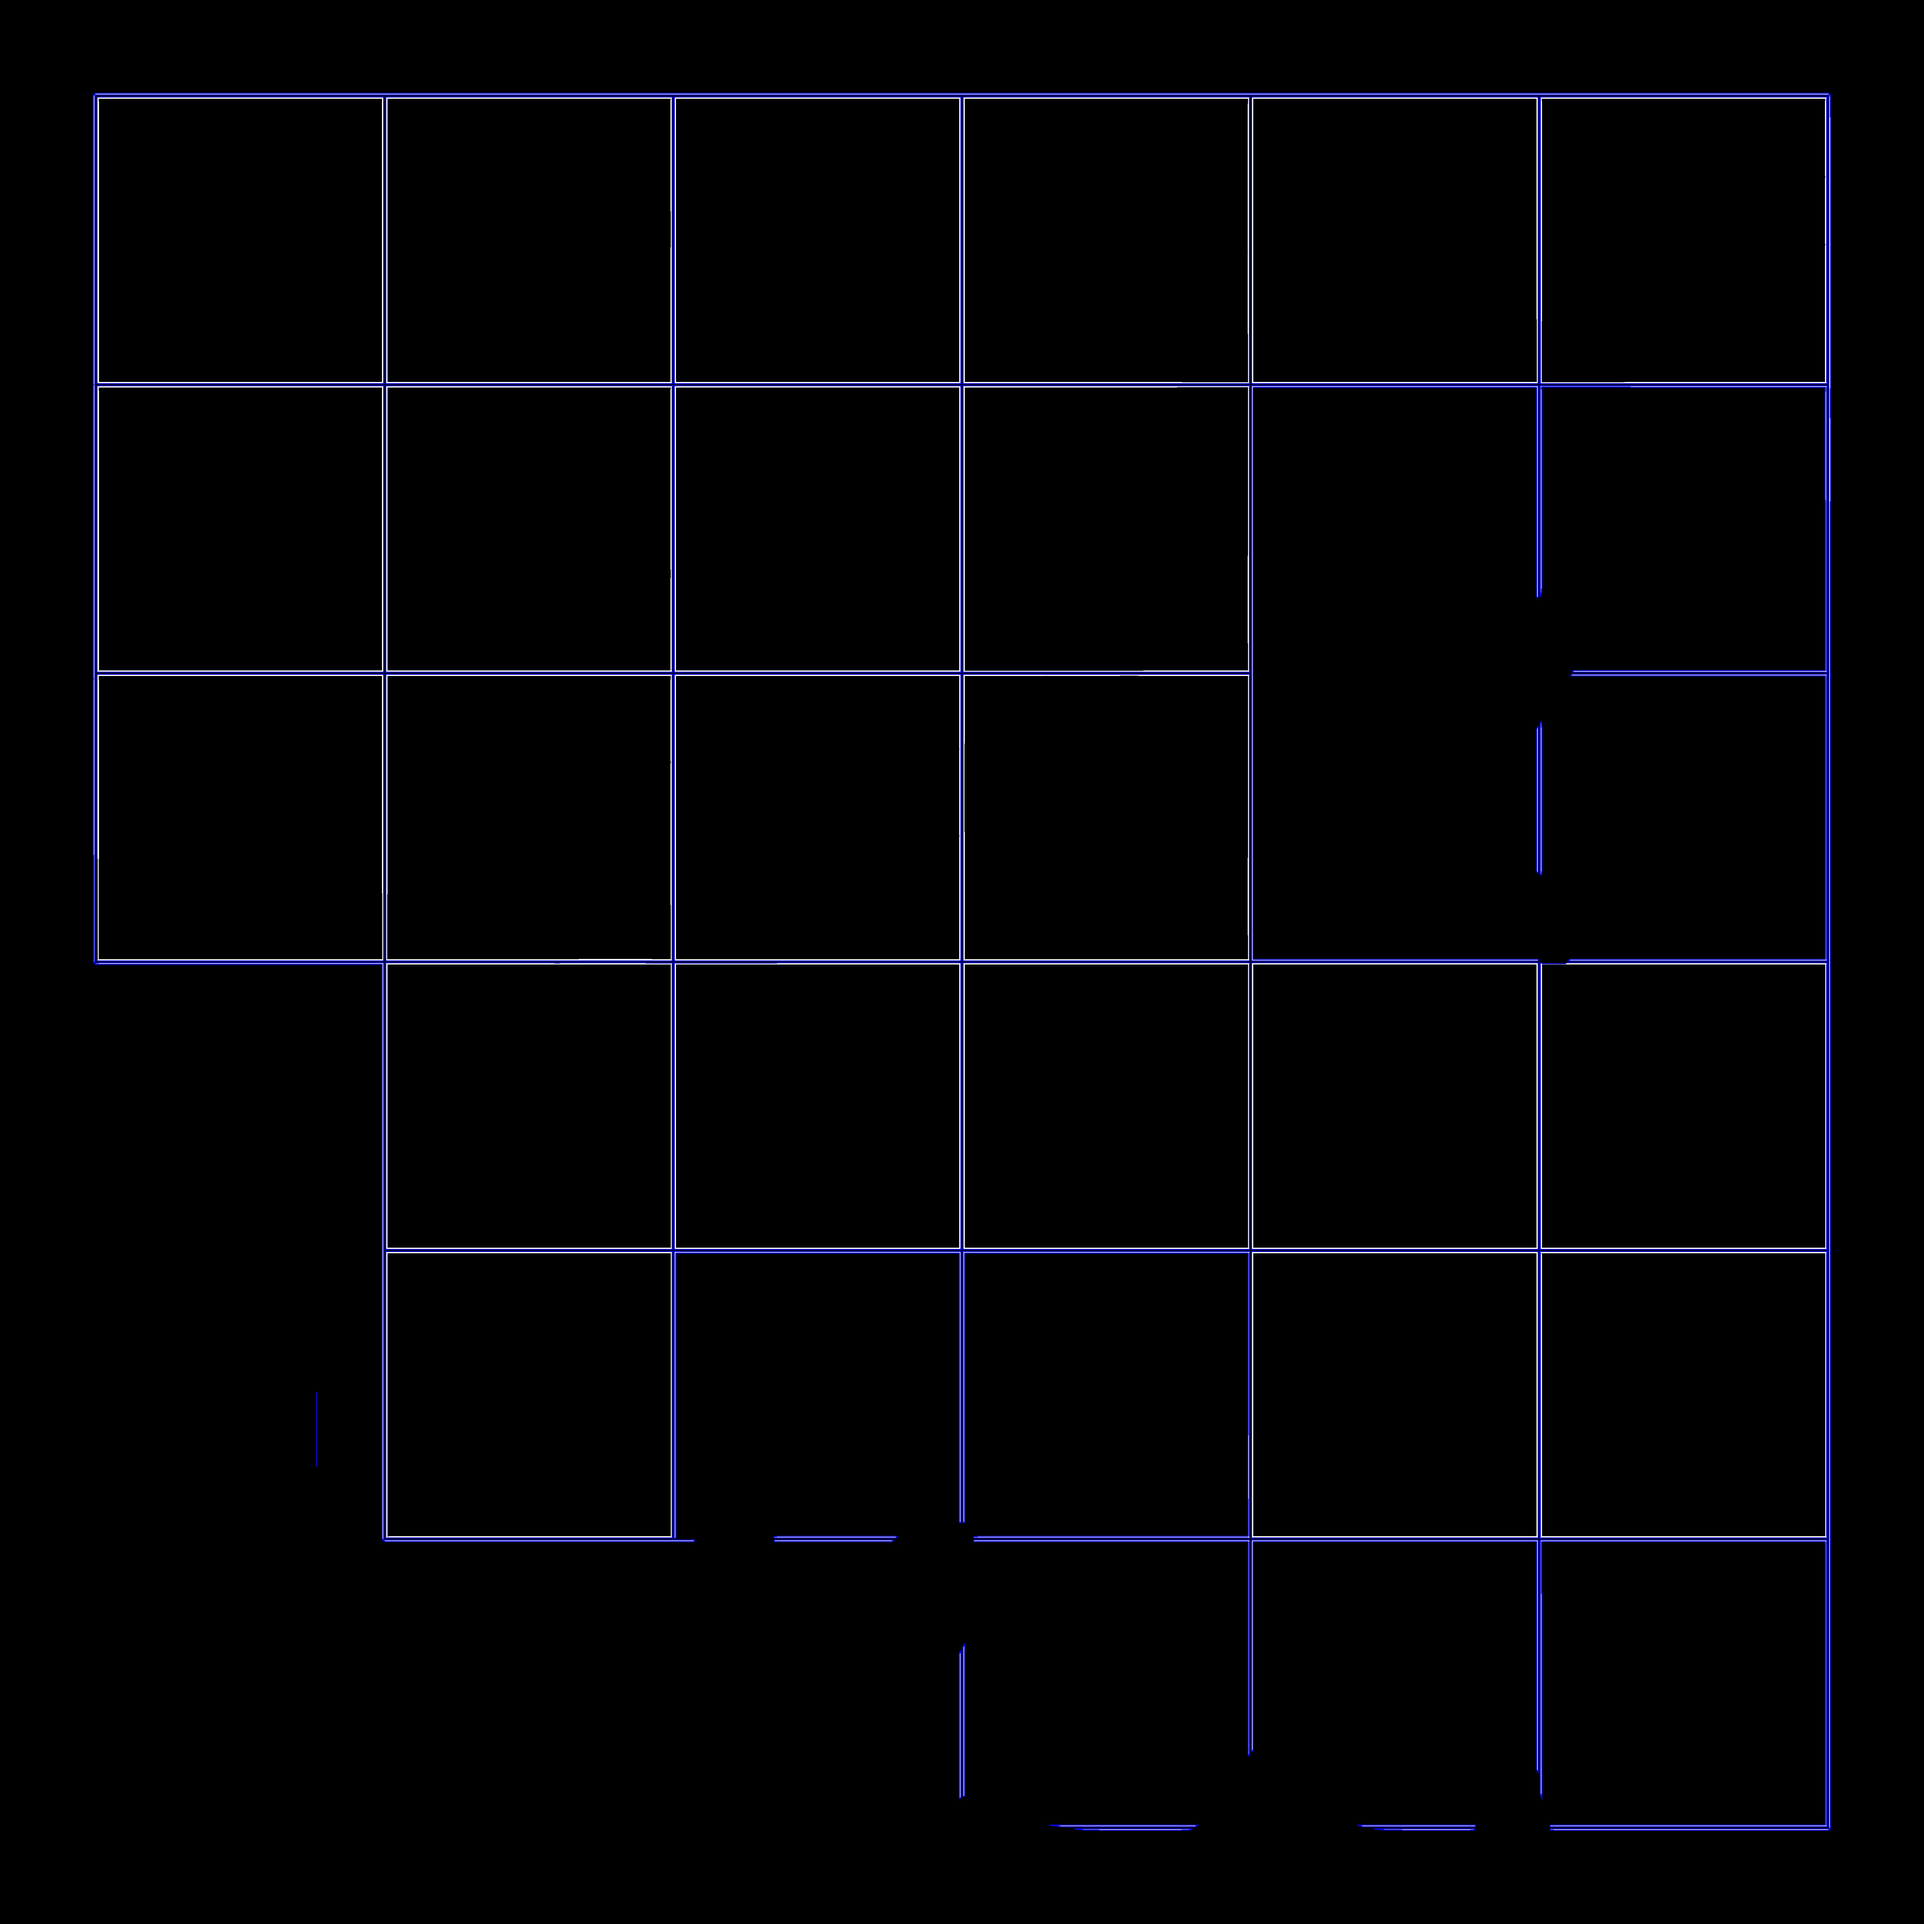
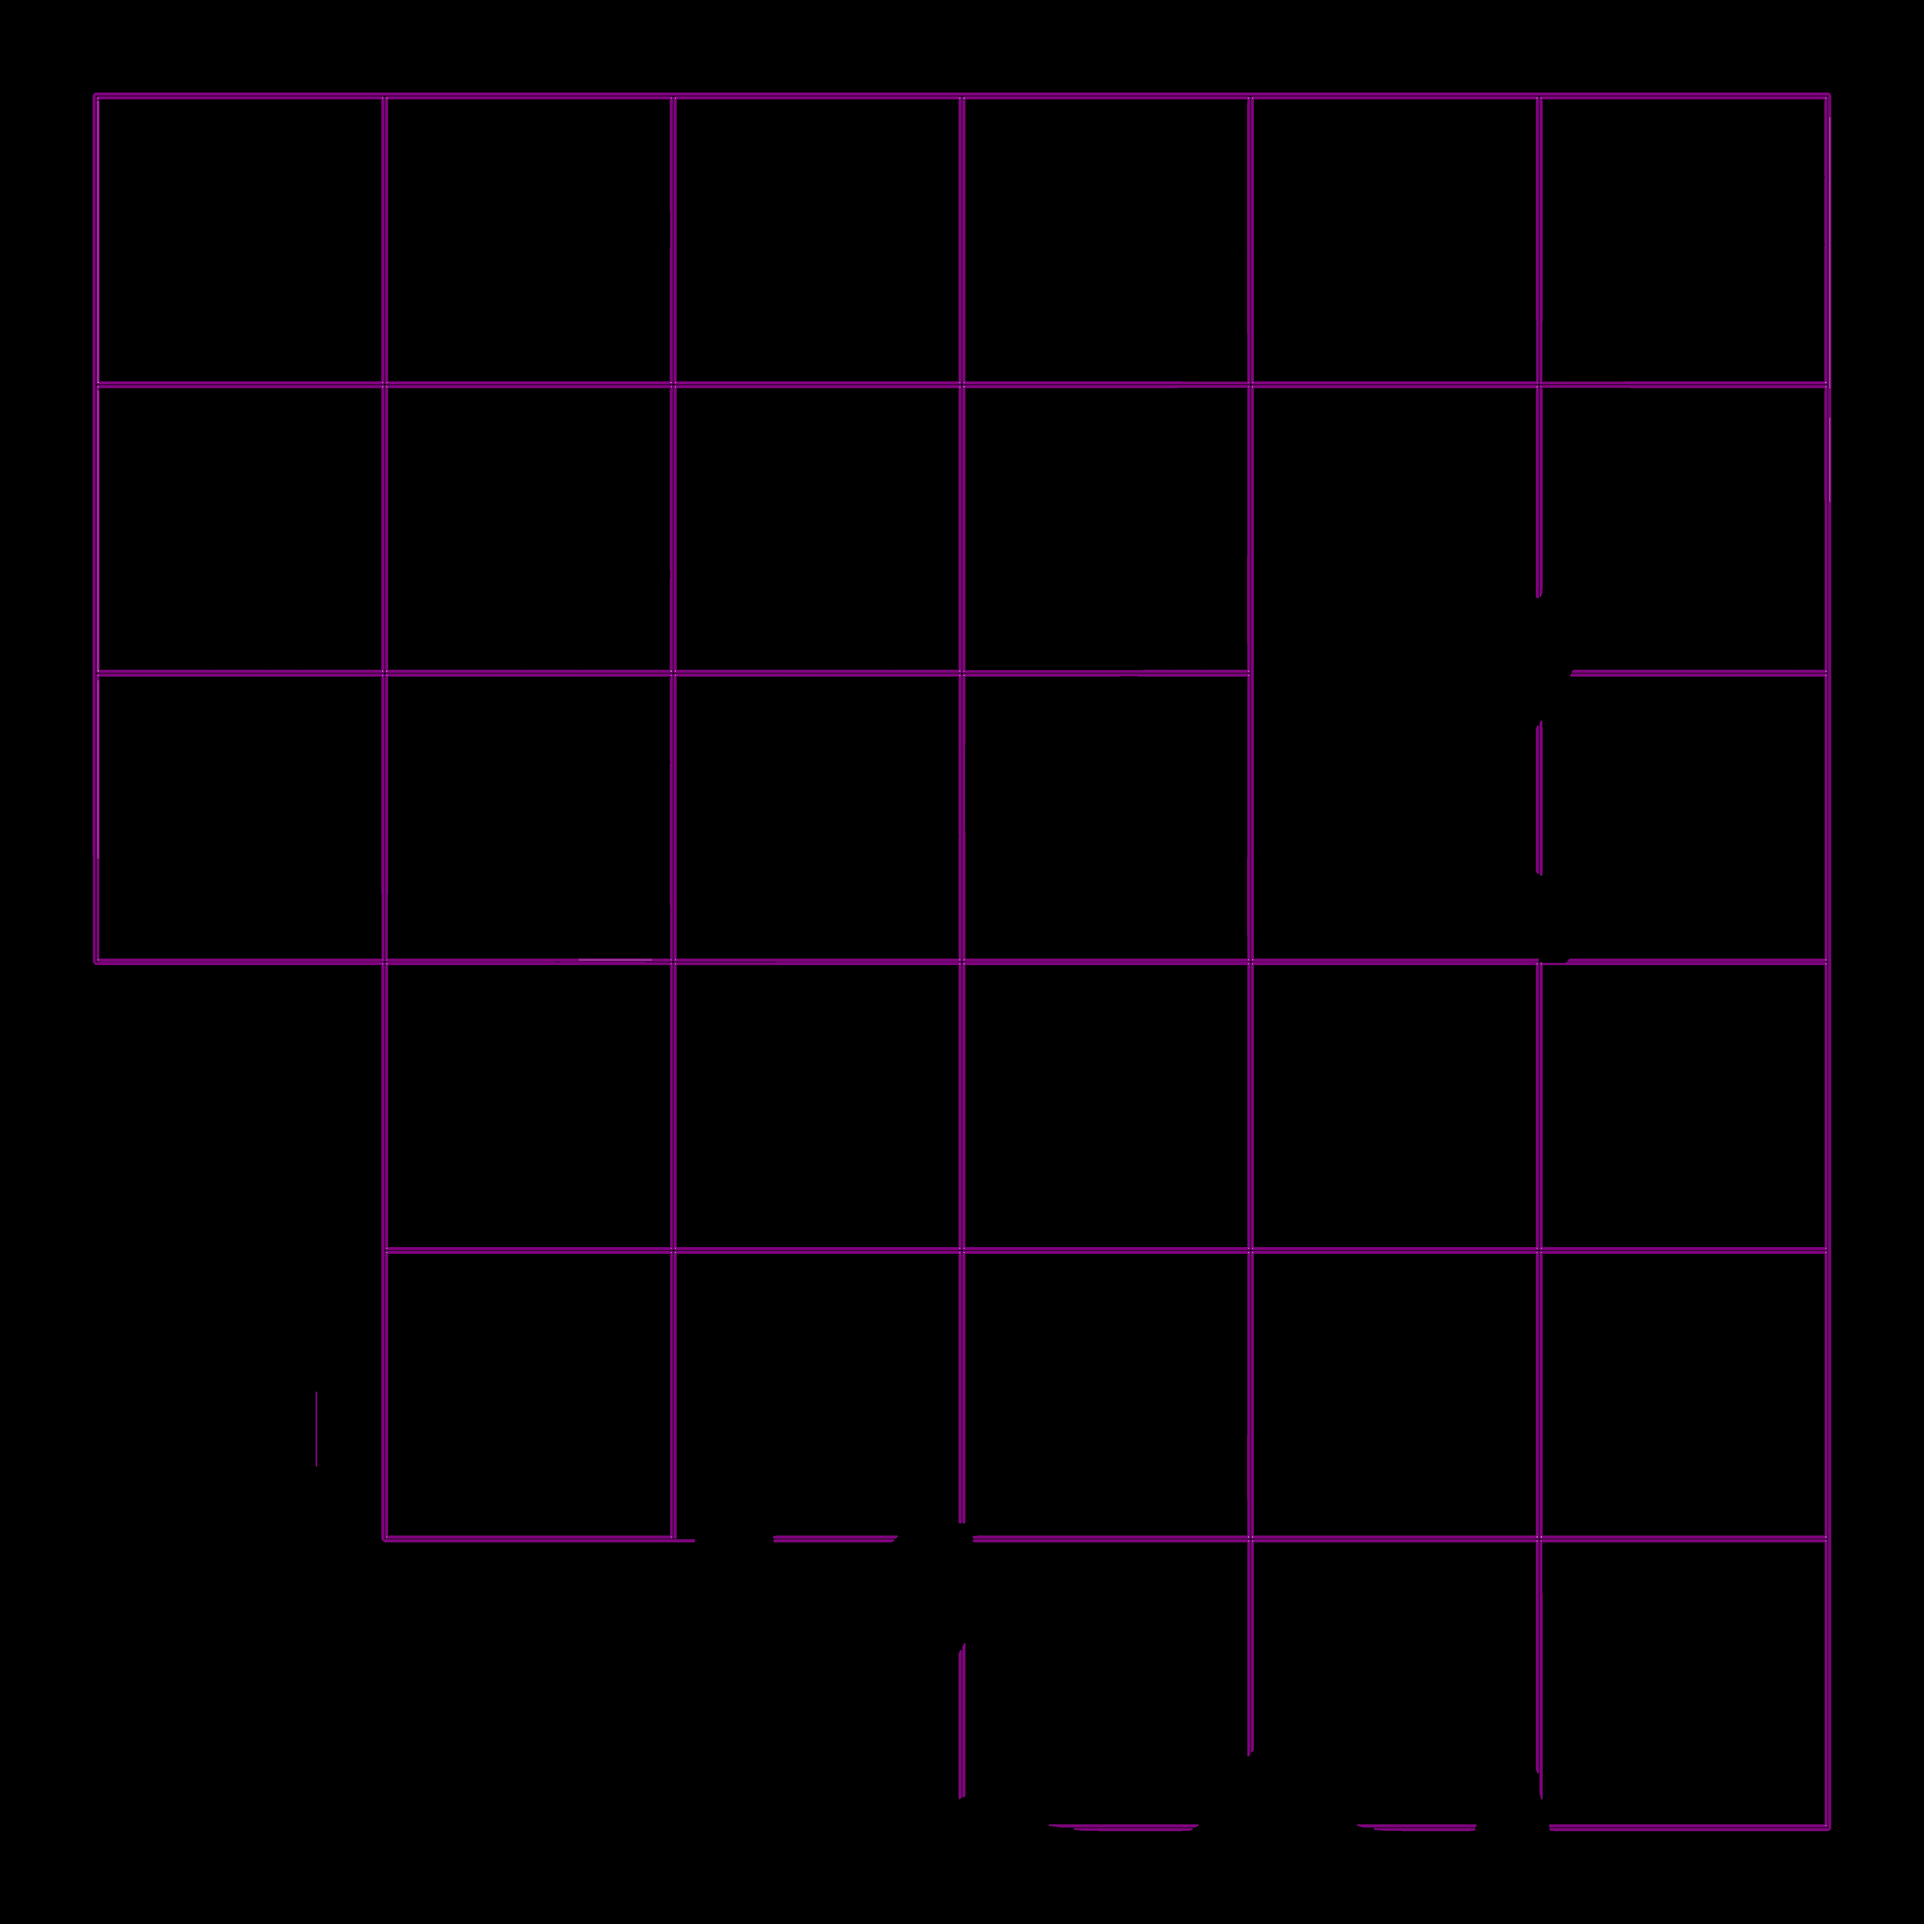
je trouve des carres :D

diff --git a/gridmaker/gridmaker.py b/gridmaker/gridmaker.py
@@ -1,12 +1,33 @@
 import cv2
 import numpy as np
+import argparse
+import imutils
 from matplotlib import pyplot as plt
 
-def print_img(img):
-    for values in img:
-        for value in values:
-            print(value, end=""),
-    print()
+
+def sort_contours(cnts, method="left-to-right"):
+    # initialize the reverse flag and sort index
+    reverse = False
+    i = 0
+
+    # handle if we need to sort in reverse
+    if method == "right-to-left" or method == "bottom-to-top":
+        reverse = True
+
+    # handle if we are sorting against the y-coordinate rather than
+    # the x-coordinate of the bounding box
+    if method == "top-to-bottom" or method == "bottom-to-top":
+        i = 1
+
+    # construct the list of bounding boxes and sort them from top to
+    # bottom
+    boundingBoxes = [cv2.boundingRect(c) for c in cnts]
+    (cnts, boundingBoxes) = zip(*sorted(zip(cnts, boundingBoxes),
+                                        key=lambda b: b[1][i], reverse=reverse))
+
+    # return the list of sorted contours and bounding boxes
+    return (cnts, boundingBoxes)
+
 
 def horizontal_image(proc):
     horizontal = np.copy(proc)
@@ -15,7 +36,7 @@ def horizontal_image(proc):
     horizontalStructure = cv2.getStructuringElement(cv2.MORPH_RECT, (horizontal_size, 1))
     horizontal = cv2.erode(horizontal, horizontalStructure)
     horizontal = cv2.dilate(horizontal, horizontalStructure)
-    cv2.imwrite("horizontal2.png", horizontal)
+    cv2.imwrite("horizontal.png", horizontal)
     return horizontal
 
 
@@ -26,7 +47,7 @@ def vertical_image(proc):
     verticalStructure = cv2.getStructuringElement(cv2.MORPH_RECT, (1, verticalsize))
     vertical = cv2.erode(vertical, verticalStructure)
     vertical = cv2.dilate(vertical, verticalStructure)
-    cv2.imwrite("vertical2.png", vertical)
+    cv2.imwrite("vertical.png", vertical)
     return vertical
 
 
@@ -40,20 +61,33 @@ def pre_process_image(img, skip_dilate=False):
         vertical = vertical_image(proc)
         horizontal = horizontal_image(proc)
         proc = cv2.addWeighted(vertical, 1, horizontal, 1, 0.0)
-        cv2.imwrite('proc2.png', proc)
     return proc
 
 
+def find_boxes(contours, img):
+    idx = 0
+    for c in contours:
+        # Returns the location and width,height for every contour
+        x, y, w, h = cv2.boundingRect(c)
+        print(x, y, w, h)
+        idx += 1
+        new_img = img[y:y + h, x:x + w]
+        cv2.imwrite(str(idx) + '.png', new_img)
+
+
 def main():
-    img = cv2.imread('Test2.png', cv2.IMREAD_GRAYSCALE)
+    img = cv2.imread('Test1.png', cv2.IMREAD_GRAYSCALE)
     processed = pre_process_image(img)
-    cv2.imwrite('thresholdprocess2.png', processed)
-    contours, heir = cv2.findContours(processed.copy(), cv2.RETR_TREE , cv2.CHAIN_APPROX_SIMPLE)
+    cv2.imwrite('processed.png', processed)
 
+    contours, tresh = cv2.findContours(processed, cv2.RETR_TREE, cv2.CHAIN_APPROX_SIMPLE)
     processed = cv2.cvtColor(processed, cv2.COLOR_GRAY2RGB)
-
-    all_contours = cv2.drawContours(processed.copy(), contours, -1, (255, 0, 0), 2)
-    cv2.imwrite('lololo2.jpg', all_contours)
+    all_contours = cv2.drawContours(processed.copy(), contours, -1, (128, 0, 128), 3)
+    cv2.imwrite('lololo.jpg', all_contours)
+    (contours, boundingBoxes) = sort_contours(contours, method="top-to-bottom")
+    print("coucou")
+    img = cv2.cvtColor(img, cv2.COLOR_GRAY2RGB)
+    find_boxes(contours, img)
 
 
 if __name__ == '__main__':
